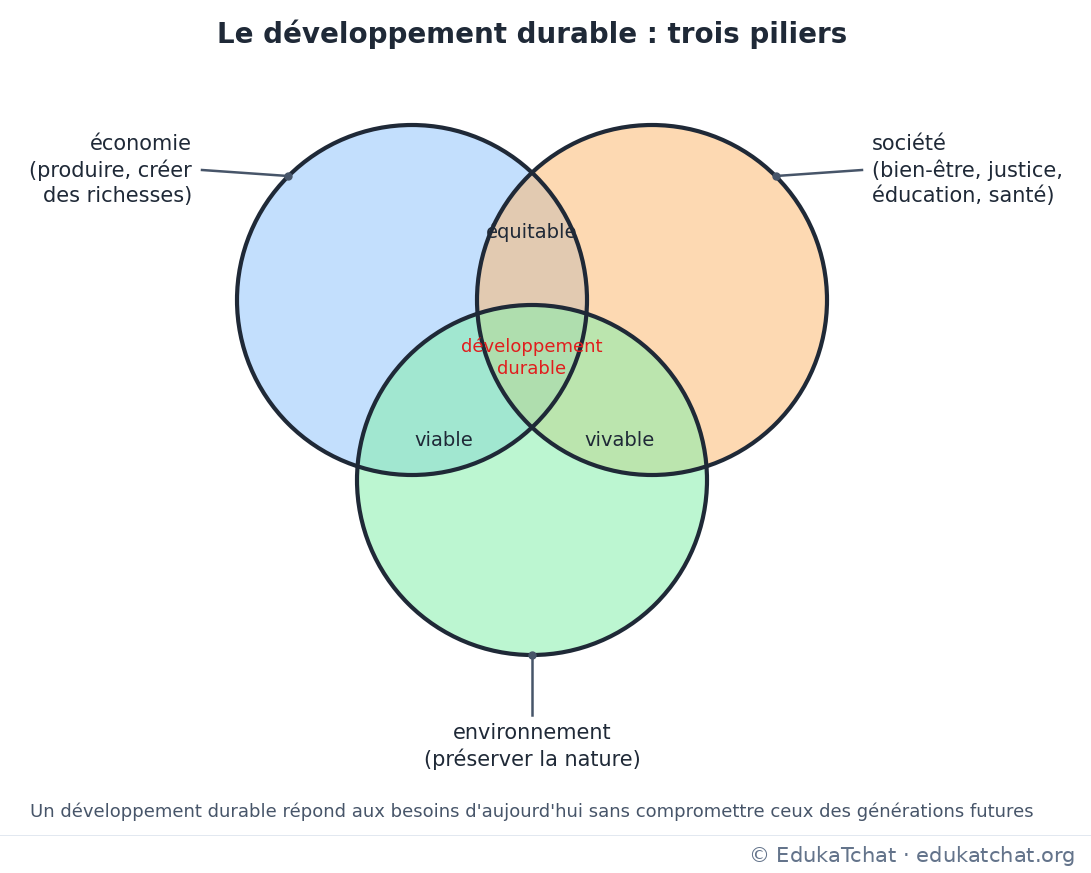
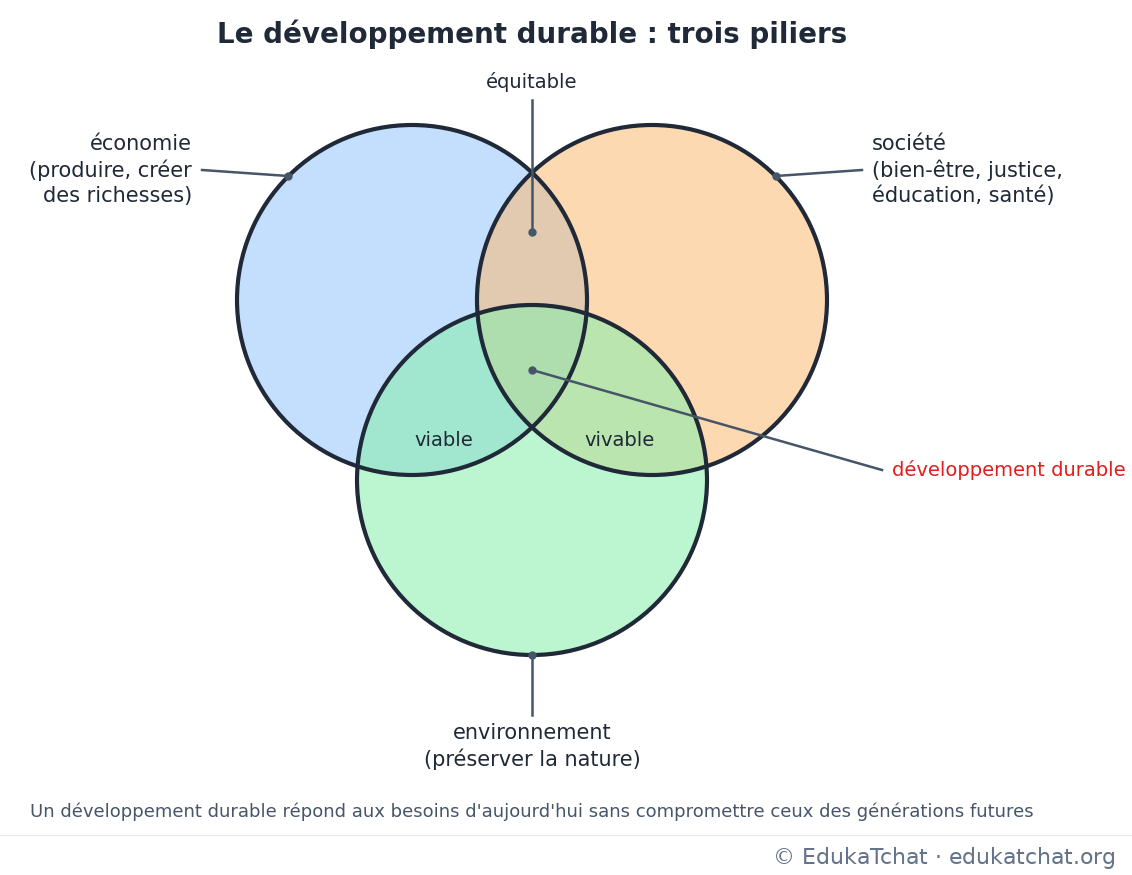
Fiches et schémas : bouton assistant (abonnés) et correction schéma

diff --git a/app.js b/app.js
@@ -1405,7 +1405,9 @@ function appliquerProfilEtEntrerDansEspace(classe, methode, stress) {
         if (typeof demarrerVisiteAuto === 'function') demarrerVisiteAuto('sas');
         const revisionLancee = !!window._reviserFiche;
         try { lancerRevisionFiche(); } catch (e) { /* jamais bloquant */ }
-        if (!revisionLancee) { try { afficherRappelsRevision(); } catch (e) { /* jamais bloquant */ } }
+        const schemaLance = !!window._schemaEnAttente;
+        try { lancerQuestionSchema(); } catch (e) { /* jamais bloquant */ }
+        if (!revisionLancee && !schemaLance) { try { afficherRappelsRevision(); } catch (e) { /* jamais bloquant */ } }
     }
 }
 
@@ -8418,6 +8420,44 @@ document.addEventListener('DOMContentLoaded', function () {
         }, 600);
     } catch (e) { /* jamais bloquant */ }
 });
+
+// ❖ 13/11/2026 : « Demander à l'assistant » depuis la page publique Fiches et schémas (fiches.html).
+// Réservé aux abonnés Premium (code ELV- dans le navigateur ; le serveur revérifie à l'envoi du message).
+// Même principe que la révision depuis le casier : on ouvre le chat de la bonne matière et on envoie la question.
+document.addEventListener('DOMContentLoaded', function () {
+    try {
+        if (new URLSearchParams(location.search).get('schema') !== '1') return;
+        history.replaceState(null, '', location.pathname);
+        const brut = localStorage.getItem('eduka_schema');
+        localStorage.removeItem('eduka_schema');
+        let r = null;
+        try { r = brut ? JSON.parse(brut) : null; } catch (e) { r = null; }
+        const retirerVoile = function () { try { const e = document.getElementById('voile-reviser-css'); if (e && e.parentNode) e.parentNode.removeChild(e); } catch (x) { /* ignoré */ } };
+        setTimeout(retirerVoile, 8000);
+        const matieres = ['maths','physique','svt','tice','francais','philosophie','histoire_geo','edhc','anglais','espagnol','allemand','musique','arts_plastiques'];
+        const sceau = localStorage.getItem('eduka_sceau') || '';
+        if (!r || !r.titre || !sceau || sceau.indexOf('ENS-') === 0 || (Date.now() - (r.t || 0) > 3600 * 1000)) { retirerVoile(); return; }
+        window._schemaEnAttente = r;
+        setTimeout(function () {
+            try {
+                espaceActuel = 'eleve';
+                if (matieres.indexOf(r.matiere) !== -1) { entrerDansLeChat(r.matiere); }
+                else { openSpace('eleve'); }
+            } catch (e) { /* jamais bloquant */ }
+            setTimeout(retirerVoile, 700);
+        }, 600);
+    } catch (e) { /* jamais bloquant */ }
+});
+
+function lancerQuestionSchema() {
+    const r = window._schemaEnAttente;
+    if (!r) return;
+    window._schemaEnAttente = null;
+    const champ = document.getElementById('sas-user-input');
+    if (!champ) return;
+    champ.value = 'Explique-moi ce schéma : \u00ab ' + String(r.titre).slice(0, 110) + ' \u00bb' + (r.niveau ? ' (' + r.niveau + ')' : '') + ', étape par étape.';
+    setTimeout(function () { try { sendSasMessage(); } catch (e) { /* jamais bloquant */ } }, 300);
+}
 
 document.addEventListener('fonctions-actives', function () {
     try {

diff --git a/fiches.js b/fiches.js
@@ -143,7 +143,10 @@
 
   /* Agrandissement */
   var boite = document.getElementById('f-boite');
+  var courante = null;
   function ouvrir(im) {
+    courante = im;
+    document.getElementById('f-boite-msg').style.display = 'none';
     document.getElementById('f-boite-img').src = im.url;
     document.getElementById('f-boite-img').alt = im.legende || '';
     document.getElementById('f-boite-legende').textContent = im.legende || im.fiche || '';
@@ -151,6 +154,32 @@
     document.getElementById('f-fermer').focus();
   }
   function fermer() { boite.classList.remove('ouverte'); }
+  /* « Demander à l'assistant » : réservé aux abonnés Premium élèves (code ELV-). Le serveur revérifie le code à l'envoi. */
+  var AVATAR = { physique: 'physique', chimie: 'physique', 'physique-chimie': 'physique', histoire: 'histoire_geo', geographie: 'histoire_geo', arts_plastiques: 'arts_plastiques' };
+  document.getElementById('f-assistant').addEventListener('click', function () {
+    var msg = document.getElementById('f-boite-msg');
+    var sceau = '';
+    try { sceau = localStorage.getItem('eduka_sceau') || ''; } catch (e) {}
+    if (!courante) return;
+    if (!sceau || sceau.indexOf('ENS-') === 0) {
+      msg.innerHTML = '🔒 Cette fonction est réservée aux abonnés Premium. <a href="https://edukatchat.org/">Découvrir l\'abonnement</a>';
+      msg.style.display = 'block';
+      return;
+    }
+    try {
+      var titre = courante.fiche || courante.legende || courante.theme || 'ce schéma';
+      localStorage.setItem('eduka_schema', JSON.stringify({
+        matiere: AVATAR[courante.matiere] || courante.matiere,
+        niveau: nomNiveau(courante.niveau),
+        titre: String(titre).slice(0, 120),
+        t: Date.now()
+      }));
+      window.location.href = 'index.html?schema=1';
+    } catch (e) {
+      msg.textContent = 'Impossible d\'ouvrir l\'assistant sur cet appareil.';
+      msg.style.display = 'block';
+    }
+  });
   document.getElementById('f-fermer').addEventListener('click', fermer);
   boite.addEventListener('click', function (e) { if (e.target === boite) fermer(); });
   document.addEventListener('keydown', function (e) { if (e.key === 'Escape') fermer(); });

diff --git a/index.html b/index.html
@@ -8,7 +8,7 @@
     (function () {
         try {
             var retour = /[?&]retour=1(&|$)/.test(location.search);
-            if (!/[?&]reviser=1(&|$)/.test(location.search) && !(retour && localStorage.getItem('eduka_retour'))) return;
+            if (!/[?&](reviser|schema)=1(&|$)/.test(location.search) && !(retour && localStorage.getItem('eduka_retour'))) return;
             var st = document.createElement('style');
             st.id = 'voile-reviser-css';
             st.textContent = 'body::before{content:"' + (retour ? '\\1F4D6  Je te ram\\E8ne \\E0  ta mati\\E8re\\2026' : '\\1F9E0  Je pr\\E9pare ta r\\E9vision\\2026') + '";position:fixed;top:0;left:0;right:0;bottom:0;z-index:2147483647;background:#F8FAFC;color:#334155;display:flex;align-items:center;justify-content:center;font:600 18px system-ui,sans-serif;text-align:center;}';

diff --git a/fiches.html b/fiches.html
@@ -77,7 +77,9 @@
 <div id="f-boite" class="f-boite" role="dialog" aria-modal="true" aria-label="Schéma agrandi">
   <img id="f-boite-img" alt="">
   <p id="f-boite-legende"></p>
+  <p id="f-boite-msg" style="display:none;background:#fff;color:#1f2937;padding:10px 14px;border-radius:10px;"></p>
   <div class="f-actions">
+    <button type="button" class="btn" id="f-assistant">💬 Demander à l'assistant</button>
     <button type="button" class="btn" id="f-imprimer">Imprimer</button>
     <button type="button" class="btn btn-sec" id="f-fermer" style="background:#fff;">Fermer</button>
   </div>
